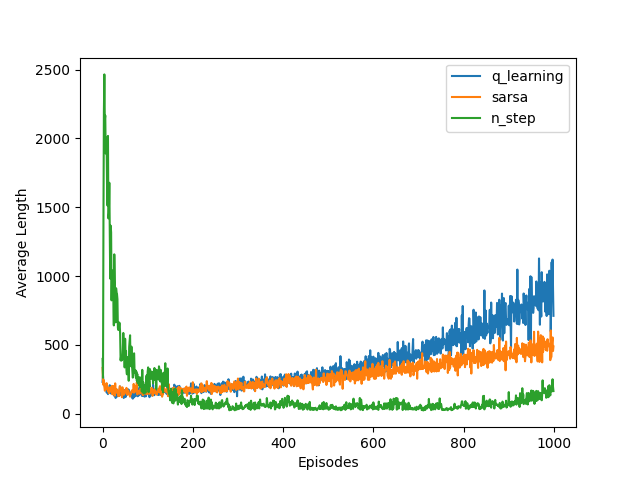
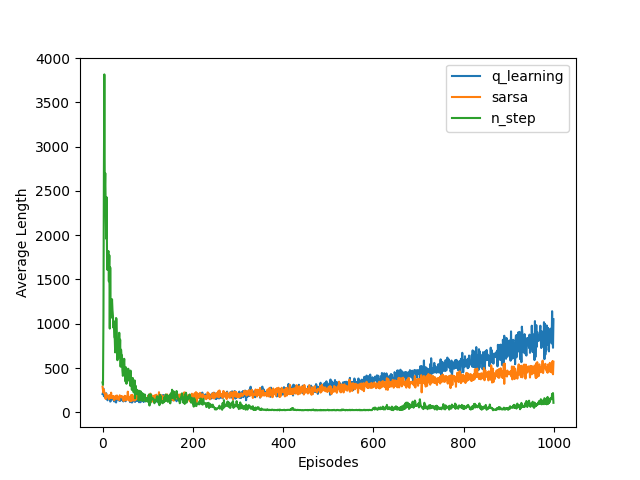
feat: Add K order buffer to partially observable

diff --git a/MainPartiallyObservable.py b/MainPartiallyObservable.py
@@ -5,6 +5,7 @@ from Environments.PartiallyObservableEnvs.InvisibleDoorEnv import InvisibleDoorE
 from MainSimpleEnvs import show, get_action_from_user, play_simple_env
 from MemoryWrappers.BinaryMemory import BinaryMemory
 from MemoryWrappers.KOrderMemory import KOrderMemory
+from MemoryWrappers.KOrderBuffer import KOrderBuffer
 
 from MainMultiGoal import run_q_learning, run_sarsa, run_n_step, plot_average_length
 
@@ -40,12 +41,30 @@ def play_env_without_extra_memory():
     env = InvisibleDoorEnv()
     play_simple_env(env)
 
+def select_memory_wrapper():
+    print("Select memory wrapper:")
+    print("1. No memory")
+    print("2. K-order memory")
+    print("3. Binary memory")
+    print("4. K-order buffer")
+
+    memory_wrapper = int(input())
+    if memory_wrapper == 1:
+        return InvisibleDoorEnv(), "no_memory"
+    elif memory_wrapper == 2:
+        memory_size = 2
+        return KOrderMemory(InvisibleDoorEnv(), memory_size), f"{memory_size}_order_memory"
+    elif memory_wrapper == 3:
+        num_of_bits = 1
+        return BinaryMemory(InvisibleDoorEnv(), num_of_bits), "binary_memory"
+    elif memory_wrapper == 4:
+        buffer_size = 1
+        return KOrderBuffer(InvisibleDoorEnv(), buffer_size), f"{buffer_size}_order_buffer"
+    else:
+        print("Invalid input")
+
 if __name__ == '__main__':
-    env = InvisibleDoorEnv()
-    # memory_size = 2
-    # env = KOrderMemory(env, memory_size)
-    num_of_bits = 1
-    env = BinaryMemory(env, num_of_bits)
+    env, filename_prefix = select_memory_wrapper()
     num_of_experiments = 30
     num_of_episodes = 1000
     baselines = [run_q_learning, run_sarsa, run_n_step]
@@ -57,4 +76,4 @@ if __name__ == '__main__':
             average_lengths += (lengths - average_lengths) / (i + 1)
             print(f"Experiment {i + 1} finished")
         baselines_avg_lengths[baseline.__name__[4:]] = average_lengths
-    plot_average_length(baselines_avg_lengths, "binary_memory_eps_lengths.png")
+    plot_average_length(baselines_avg_lengths, f"{filename_prefix}_eps_lengths.png")

diff --git a/MemoryWrappers/KOrderBuffer.py b/MemoryWrappers/KOrderBuffer.py
@@ -1,0 +1,35 @@
+from collections import deque
+
+from Environments.AbstractEnv import AbstractEnv
+
+class KOrderBuffer(AbstractEnv):
+
+    def __init__(self, env, buffer_size):
+        self.__env = env
+        self.__buffer_size = buffer_size
+        self.__current_state = None
+        self.__memory = None
+
+    @property
+    def action_space(self):
+        env_actions = self.__env.action_space
+        memory_actions = ["save", "ignore"]
+        return [(env_action, memory_action) for env_action in env_actions for memory_action in memory_actions]
+
+    def reset(self):
+        s = self.__env.reset()
+        self.__memory = deque(maxlen=self.__buffer_size)
+        self.__current_state = s
+        return tuple(self.__memory)
+
+    def step(self, action):
+        env_action, mem_action = action
+        if mem_action == "save":
+            self.__memory.append(self.__current_state)
+        s, r, done = self.__env.step(env_action)
+        self.__current_state = s
+        return (s, tuple(self.__memory)), r, done
+
+    def show(self):
+        self.__env.show()
+        print(f"Memory: {self.__memory}")
